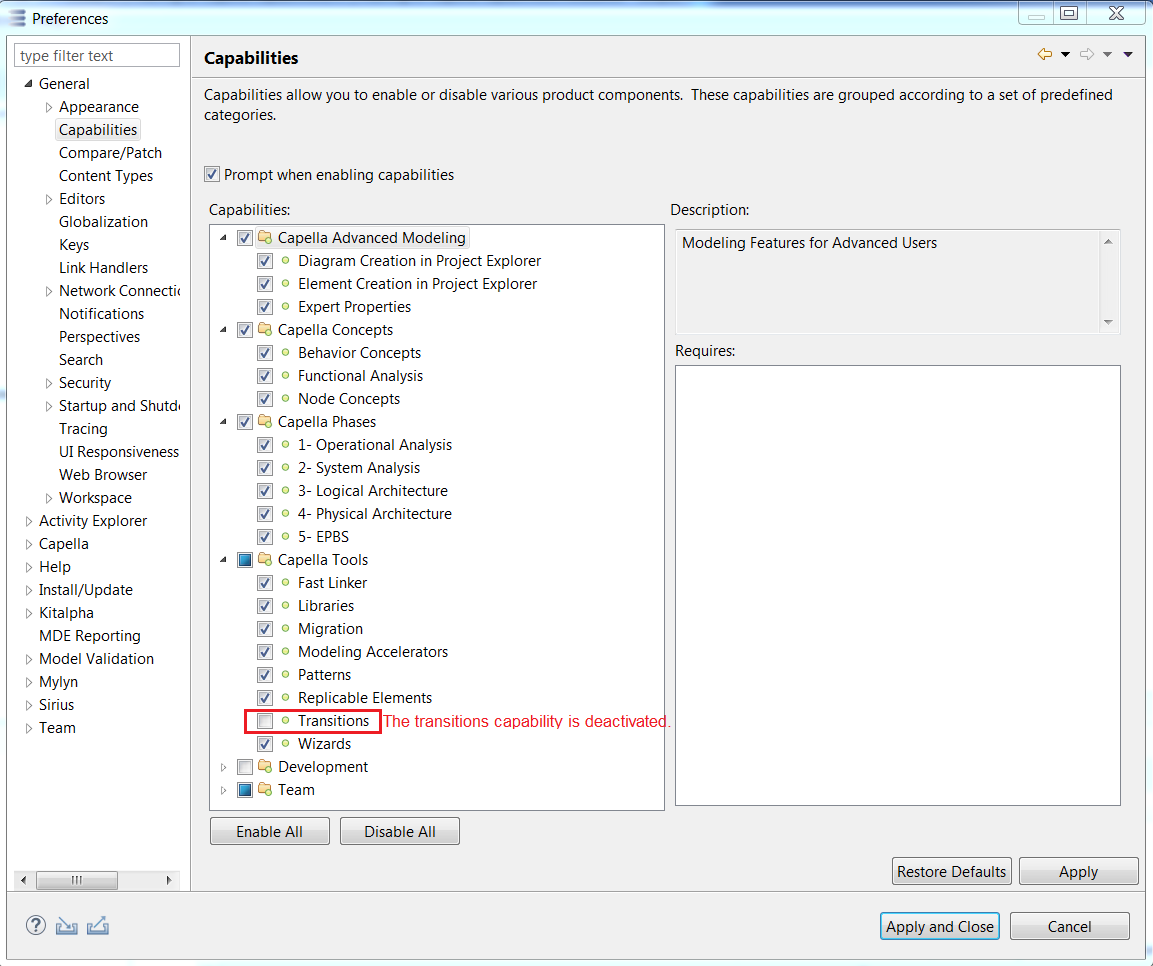
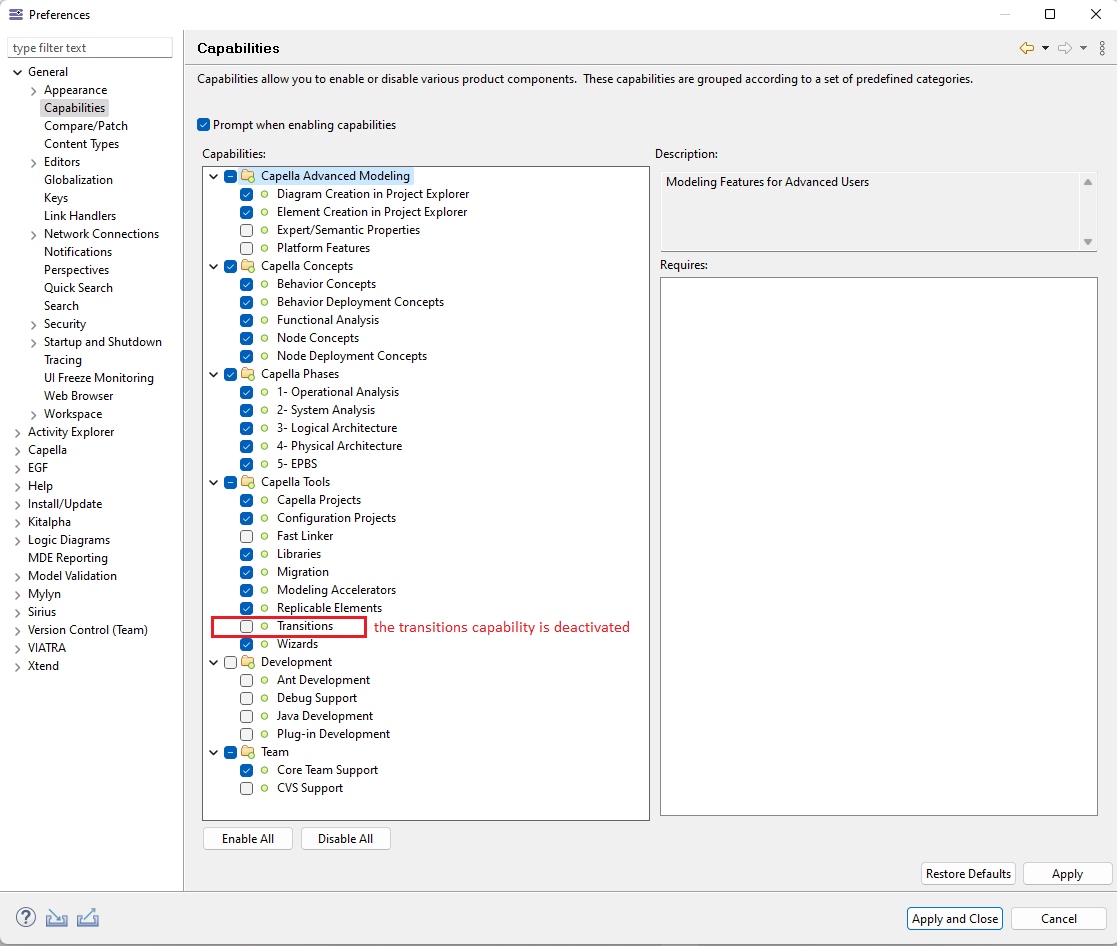
#2554 Hide Expert Properties by default

diff --git a/doc/plugins/org.polarsys.capella.ui.doc/html/04. User Interface/4.14. Properties.html b/doc/plugins/org.polarsys.capella.ui.doc/html/04. User Interface/4.14. Properties.html
@@ -19,9 +19,25 @@
 <li>Management: additional attributes for review, visibility in documentation and Traceability</li>
 <li>Description: a rich text description of the element. Can include images, links toward diagrams and model elements...</li>
 <li>Extensions: link with Property Values and Property Group. Users might use PVMT add-on instead of this tab (download link)</li>
-<li>Expert: all attributes and relation defined within Capella. To be used with extreme caution</li>
+<li>Expert (named "Semantic" on diagram elements): all attributes and relation defined within Capella - disabled by default, please refer to 
+			<a href="/wiki/../help/topic/org.polarsys.capella.doc/html/Filtering%20of%20Capella%20Capabilities/Filtering%20of%20Capella%20Capabilities.html" title="../help/topic/org.polarsys.capella.doc/html/Filtering%20of%20Capella%20Capabilities/Filtering%20of%20Capella%20Capabilities.html">Capella Capabilities</a> <span class="github-link">
+			<a href="/wiki/../../../org.polarsys.capella.doc/Filtering_of_Capella_Capabilities/Filtering_of_Capella_Capabilities.mediawiki" title="../../../org.polarsys.capella.doc/Filtering of Capella Capabilities/Filtering of Capella Capabilities.mediawiki">(online documentation)</a></span>  
+</li>
 </ul>
-
+		</p>
+		<table border="1">
+			<tr>
+				<td>
+					<p>
+						<img height="34" width="34" border="0" src="Images/Warning_ExclamationPoint.png"/>
+					</p>
+				</td>
+				<td>
+					<p>Expert and Semantic tab must be used with extreme caution as it can break your models and diagrams</p>
+				</td>
+			</tr>
+		</table>
+		<p>
 			<img height="300" width="600" align="middle" border="0" src="Images/PropertiesView.png"/>
 			<br/>
 			<br/>

diff --git a/doc/plugins/org.polarsys.capella.ui.doc/html/04. User Interface/4.06. Properties View.html b/doc/plugins/org.polarsys.capella.ui.doc/html/04. User Interface/4.06. Properties View.html
@@ -33,6 +33,10 @@
 		<p>Capella editors contain 4 sections: semantic properties, description, extensions, management.</p>
 		<h2 id="Capella_Section_.28Semantic_Properties.29">Capella Section (Semantic Properties)</h2>
 		<p>This section displays the most important semantic information about the current element. It also allows defining relationships between elements.</p>
+		<p>disabled by default, please refer to 
+			<a href="/wiki/../help/topic/org.polarsys.capella.doc/html/Filtering%20of%20Capella%20Capabilities/Filtering%20of%20Capella%20Capabilities.html" title="../help/topic/org.polarsys.capella.doc/html/Filtering%20of%20Capella%20Capabilities/Filtering%20of%20Capella%20Capabilities.html">Capella Capabilities</a> <span class="github-link">
+			<a href="/wiki/../../../org.polarsys.capella.doc/Filtering_of_Capella_Capabilities/Filtering_of_Capella_Capabilities.mediawiki" title="../../../org.polarsys.capella.doc/Filtering of Capella Capabilities/Filtering of Capella Capabilities.mediawiki">(online documentation)</a></span>  
+		</p>
 		<p>
 			<img height="300" width="600" border="0" src="Images/4.06_Properties_View3.png"/>
 		</p>

diff --git a/doc/plugins/org.polarsys.capella.doc/html/Filtering of Capella capabilities/Filtering of Capella capabilities.html b/doc/plugins/org.polarsys.capella.doc/html/Filtering of Capella capabilities/Filtering of Capella capabilities.html
@@ -11,7 +11,7 @@
 		<p>Capabilities allow us to enable or disable certain components of Capella product. Some categories of Capella functionalities have been predefined in the Capabilities preference page are:</p>
 		<ul>
 			<li>
-				<b>Capella Advanced Modeling</b> includes functionalities for advanced users, for instance the Expert property view
+				<b>Capella Advanced Modeling</b> includes functionalities for advanced users, for instance the Expert property view (this view is disabled by default, to be used with extreme caution).
 			</li>
 			<li>
 				<b>Capella Concepts</b> includes functionalities concerning Capella System Engineering concepts, for instance the behavior component concept
